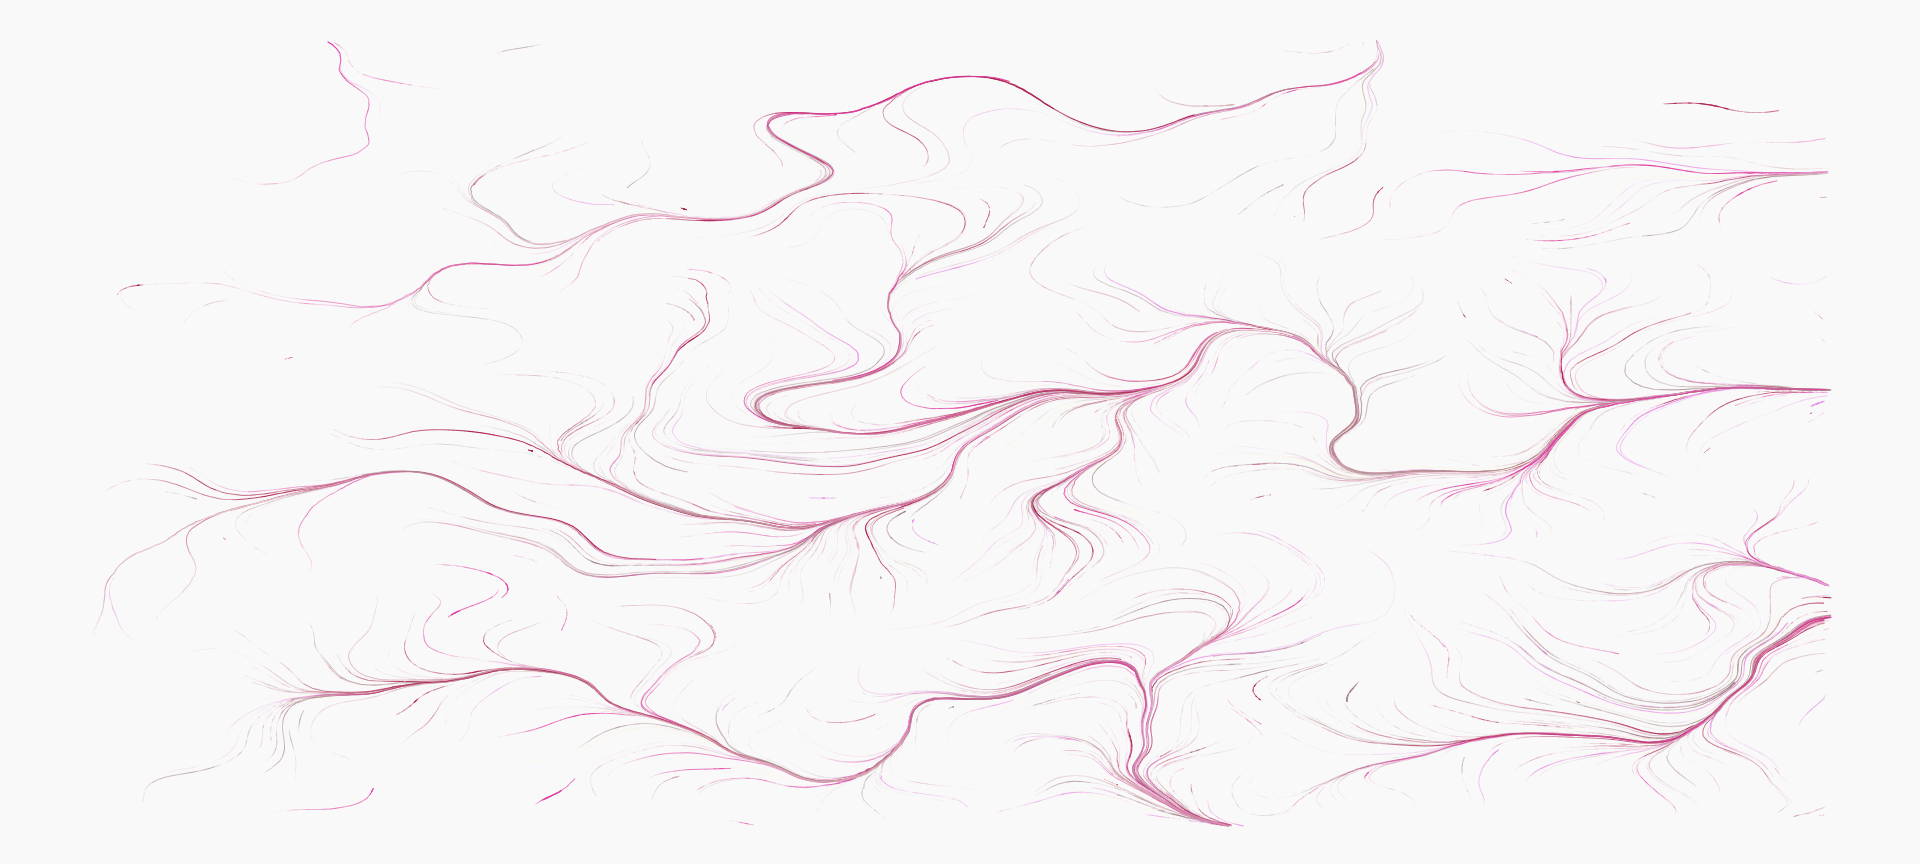
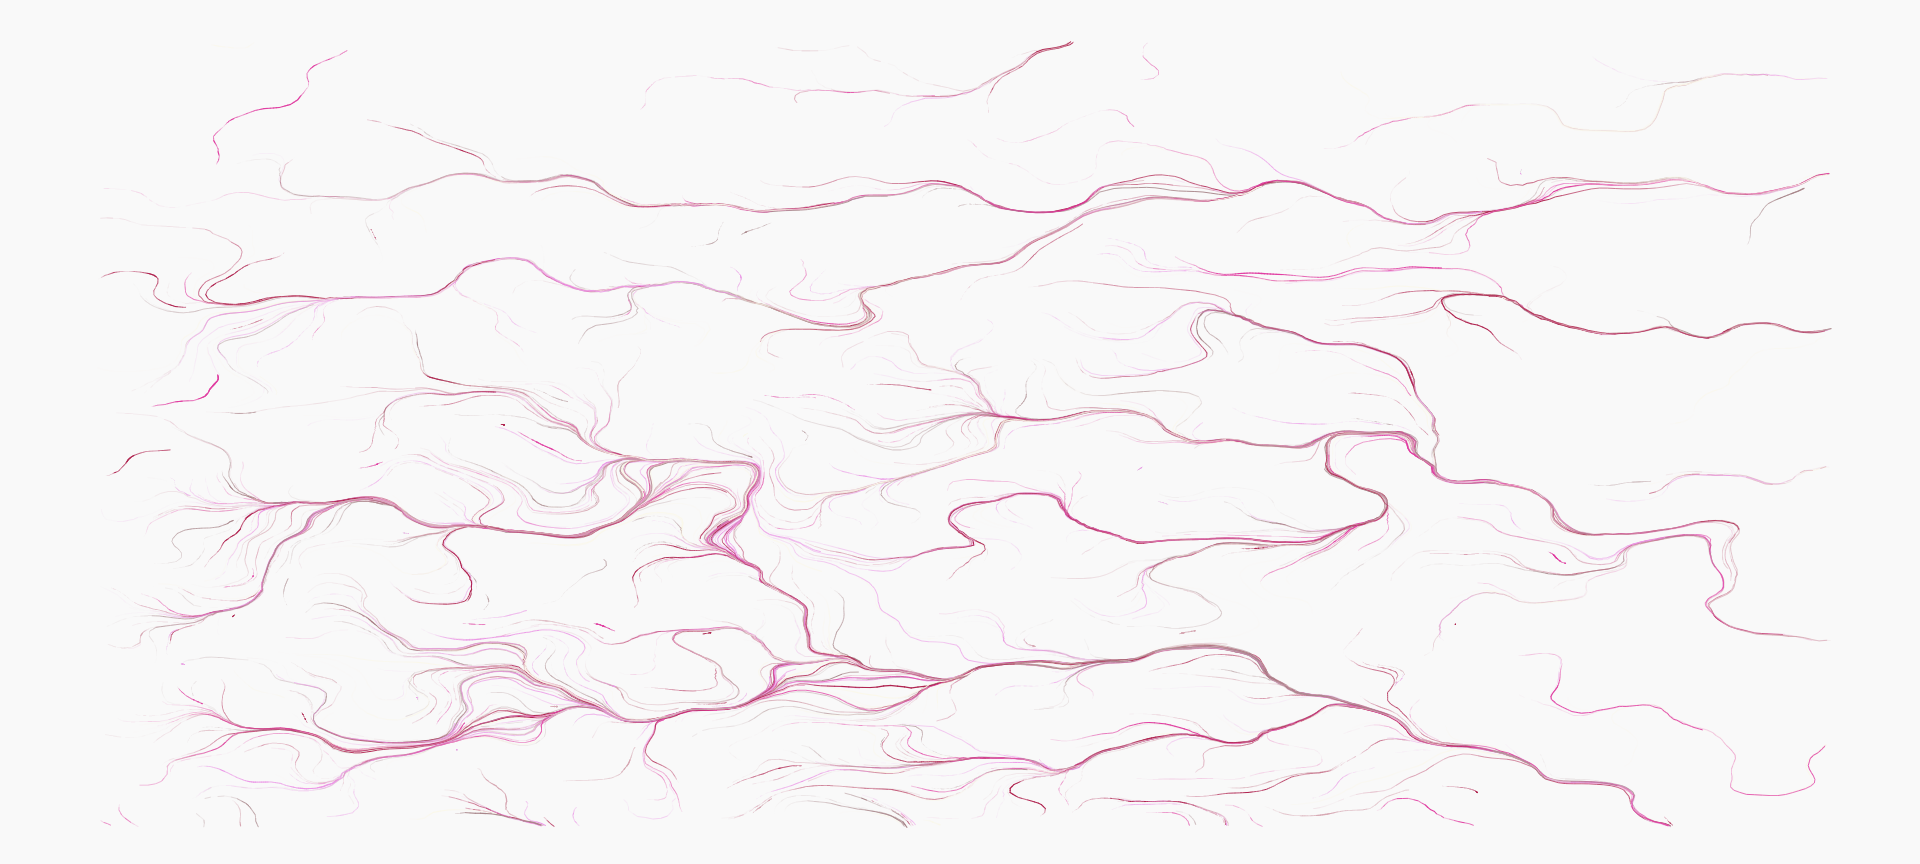
ughhh

diff --git a/R-tip of the day.html b/R-tip of the day.html
@@ -327,7 +327,6 @@ Mvuselelo Mathunjwa
 <h2>Example 1: Function Explanation</h2>
 <ul>
 <li>It is very similar to ggplot and easy to use</li>
-<li>Incrementally highlight additional lines</li>
 </ul>
 <div class="code-copy-outer-scaffold"><div class="sourceCode" id="cb2" data-code-line-numbers="9-10|12-17|19-24"><pre class="sourceCode numberSource python number-lines code-with-copy"><code class="sourceCode python"><span id="cb2-1"><a href=""></a>library(highcharter)</span>
 <span id="cb2-2"><a href=""></a>library(gapminder)</span>
@@ -358,8 +357,8 @@ Mvuselelo Mathunjwa
 <h2>Example 1: Interactive Line Graph</h2>
 <div class="cell">
 <div class="cell-output-display">
-<div class="highchart html-widget html-fill-item" id="htmlwidget-83e4f9df728251ae7291" style="width:960px;height:672px;"></div>
-<script type="application/json" data-for="htmlwidget-83e4f9df728251ae7291">{"x":{"hc_opts":{"chart":{"reflow":true},"title":{"text":null},"yAxis":{"title":{"text":"Population"}},"credits":{"enabled":false},"exporting":{"enabled":false},"boost":{"enabled":false},"plotOptions":{"series":{"label":{"enabled":false},"turboThreshold":0,"marker":{"symbol":"circle"}},"treemap":{"layoutAlgorithm":"squarified"},"animation":true},"series":[{"name":"Niger","data":[{"country":"Niger","continent":"Africa","year":1952,"lifeExp":37.444,"pop":3379468,"gdpPercap":761.879376,"x":1952,"y":3379468},{"country":"Niger","continent":"Africa","year":1957,"lifeExp":38.598,"pop":3692184,"gdpPercap":835.5234025,"x":1957,"y":3692184},{"country":"Niger","continent":"Africa","year":1962,"lifeExp":39.487,"pop":4076008,"gdpPercap":997.7661127,"x":1962,"y":4076008},{"country":"Niger","continent":"Africa","year":1967,"lifeExp":40.118,"pop":4534062,"gdpPercap":1054.384891,"x":1967,"y":4534062},{"country":"Niger","continent":"Africa","year":1972,"lifeExp":40.546,"pop":5060262,"gdpPercap":954.2092363,"x":1972,"y":5060262},{"country":"Niger","continent":"Africa","year":1977,"lifeExp":41.291,"pop":5682086,"gdpPercap":808.8970728,"x":1977,"y":5682086},{"country":"Niger","continent":"Africa","year":1982,"lifeExp":42.598,"pop":6437188,"gdpPercap":909.7221354,"x":1982,"y":6437188},{"country":"Niger","continent":"Africa","year":1987,"lifeExp":44.555,"pop":7332638,"gdpPercap":668.3000228,"x":1987,"y":7332638},{"country":"Niger","continent":"Africa","year":1992,"lifeExp":47.391,"pop":8392818,"gdpPercap":581.182725,"x":1992,"y":8392818},{"country":"Niger","continent":"Africa","year":1997,"lifeExp":51.313,"pop":9666252,"gdpPercap":580.3052092,"x":1997,"y":9666252},{"country":"Niger","continent":"Africa","year":2002,"lifeExp":54.496,"pop":11140655,"gdpPercap":601.0745012,"x":2002,"y":11140655},{"country":"Niger","continent":"Africa","year":2007,"lifeExp":56.867,"pop":12894865,"gdpPercap":619.6768924,"x":2007,"y":12894865}],"type":"line"},{"name":"South Africa","data":[{"country":"South Africa","continent":"Africa","year":1952,"lifeExp":45.009,"pop":14264935,"gdpPercap":4725.295531,"x":1952,"y":14264935},{"country":"South Africa","continent":"Africa","year":1957,"lifeExp":47.985,"pop":16151549,"gdpPercap":5487.104219,"x":1957,"y":16151549},{"country":"South Africa","continent":"Africa","year":1962,"lifeExp":49.951,"pop":18356657,"gdpPercap":5768.729717,"x":1962,"y":18356657},{"country":"South Africa","continent":"Africa","year":1967,"lifeExp":51.927,"pop":20997321,"gdpPercap":7114.477971,"x":1967,"y":20997321},{"country":"South Africa","continent":"Africa","year":1972,"lifeExp":53.696,"pop":23935810,"gdpPercap":7765.962636,"x":1972,"y":23935810},{"country":"South Africa","continent":"Africa","year":1977,"lifeExp":55.527,"pop":27129932,"gdpPercap":8028.651439,"x":1977,"y":27129932},{"country":"South Africa","continent":"Africa","year":1982,"lifeExp":58.161,"pop":31140029,"gdpPercap":8568.266228,"x":1982,"y":31140029},{"country":"South Africa","continent":"Africa","year":1987,"lifeExp":60.834,"pop":35933379,"gdpPercap":7825.823398,"x":1987,"y":35933379},{"country":"South Africa","continent":"Africa","year":1992,"lifeExp":61.888,"pop":39964159,"gdpPercap":7225.069258,"x":1992,"y":39964159},{"country":"South Africa","continent":"Africa","year":1997,"lifeExp":60.236,"pop":42835005,"gdpPercap":7479.188244,"x":1997,"y":42835005},{"country":"South Africa","continent":"Africa","year":2002,"lifeExp":53.365,"pop":44433622,"gdpPercap":7710.946444,"x":2002,"y":44433622},{"country":"South Africa","continent":"Africa","year":2007,"lifeExp":49.339,"pop":43997828,"gdpPercap":9269.657808,"x":2007,"y":43997828}],"type":"line"},{"name":"Swaziland","data":[{"country":"Swaziland","continent":"Africa","year":1952,"lifeExp":41.407,"pop":290243,"gdpPercap":1148.376626,"x":1952,"y":290243},{"country":"Swaziland","continent":"Africa","year":1957,"lifeExp":43.424,"pop":326741,"gdpPercap":1244.708364,"x":1957,"y":326741},{"country":"Swaziland","continent":"Africa","year":1962,"lifeExp":44.992,"pop":370006,"gdpPercap":1856.182125,"x":1962,"y":370006},{"country":"Swaziland","continent":"Africa","year":1967,"lifeExp":46.633,"pop":420690,"gdpPercap":2613.101665,"x":1967,"y":420690},{"country":"Swaziland","continent":"Africa","year":1972,"lifeExp":49.552,"pop":480105,"gdpPercap":3364.836625,"x":1972,"y":480105},{"country":"Swaziland","continent":"Africa","year":1977,"lifeExp":52.537,"pop":551425,"gdpPercap":3781.410618,"x":1977,"y":551425},{"country":"Swaziland","continent":"Africa","year":1982,"lifeExp":55.561,"pop":649901,"gdpPercap":3895.384018,"x":1982,"y":649901},{"country":"Swaziland","continent":"Africa","year":1987,"lifeExp":57.678,"pop":779348,"gdpPercap":3984.839812,"x":1987,"y":779348},{"country":"Swaziland","continent":"Africa","year":1992,"lifeExp":58.474,"pop":962344,"gdpPercap":3553.0224,"x":1992,"y":962344},{"country":"Swaziland","continent":"Africa","year":1997,"lifeExp":54.289,"pop":1054486,"gdpPercap":3876.76846,"x":1997,"y":1054486},{"country":"Swaziland","continent":"Africa","year":2002,"lifeExp":43.869,"pop":1130269,"gdpPercap":4128.116943,"x":2002,"y":1130269},{"country":"Swaziland","continent":"Africa","year":2007,"lifeExp":39.613,"pop":1133066,"gdpPercap":4513.480643,"x":2007,"y":1133066}],"type":"line"},{"name":"Tanzania","data":[{"country":"Tanzania","continent":"Africa","year":1952,"lifeExp":41.215,"pop":8322925,"gdpPercap":716.6500721,"x":1952,"y":8322925},{"country":"Tanzania","continent":"Africa","year":1957,"lifeExp":42.974,"pop":9452826,"gdpPercap":698.5356073,"x":1957,"y":9452826},{"country":"Tanzania","continent":"Africa","year":1962,"lifeExp":44.246,"pop":10863958,"gdpPercap":722.0038072999999,"x":1962,"y":10863958},{"country":"Tanzania","continent":"Africa","year":1967,"lifeExp":45.757,"pop":12607312,"gdpPercap":848.2186574999999,"x":1967,"y":12607312},{"country":"Tanzania","continent":"Africa","year":1972,"lifeExp":47.62,"pop":14706593,"gdpPercap":915.9850592,"x":1972,"y":14706593},{"country":"Tanzania","continent":"Africa","year":1977,"lifeExp":49.919,"pop":17129565,"gdpPercap":962.4922931999999,"x":1977,"y":17129565},{"country":"Tanzania","continent":"Africa","year":1982,"lifeExp":50.608,"pop":19844382,"gdpPercap":874.2426069000001,"x":1982,"y":19844382},{"country":"Tanzania","continent":"Africa","year":1987,"lifeExp":51.535,"pop":23040630,"gdpPercap":831.8220794,"x":1987,"y":23040630},{"country":"Tanzania","continent":"Africa","year":1992,"lifeExp":50.44,"pop":26605473,"gdpPercap":825.682454,"x":1992,"y":26605473},{"country":"Tanzania","continent":"Africa","year":1997,"lifeExp":48.466,"pop":30686889,"gdpPercap":789.1862231,"x":1997,"y":30686889},{"country":"Tanzania","continent":"Africa","year":2002,"lifeExp":49.651,"pop":34593779,"gdpPercap":899.0742111,"x":2002,"y":34593779},{"country":"Tanzania","continent":"Africa","year":2007,"lifeExp":52.517,"pop":38139640,"gdpPercap":1107.482182,"x":2007,"y":38139640}],"type":"line"}],"xAxis":{"title":{"text":"Year"}},"legend":{"align":"right","verticalAlign":"top"}},"theme":{"chart":{"backgroundColor":"transparent"},"colors":["#7cb5ec","#434348","#90ed7d","#f7a35c","#8085e9","#f15c80","#e4d354","#2b908f","#f45b5b","#91e8e1"]},"conf_opts":{"global":{"Date":null,"VMLRadialGradientURL":"http =//code.highcharts.com/list(version)/gfx/vml-radial-gradient.png","canvasToolsURL":"http =//code.highcharts.com/list(version)/modules/canvas-tools.js","getTimezoneOffset":null,"timezoneOffset":0,"useUTC":true},"lang":{"contextButtonTitle":"Chart context menu","decimalPoint":".","downloadCSV":"Download CSV","downloadJPEG":"Download JPEG image","downloadPDF":"Download PDF document","downloadPNG":"Download PNG image","downloadSVG":"Download SVG vector image","downloadXLS":"Download XLS","drillUpText":"◁ Back to {series.name}","exitFullscreen":"Exit from full screen","exportData":{"annotationHeader":"Annotations","categoryDatetimeHeader":"DateTime","categoryHeader":"Category"},"hideData":"Hide data table","invalidDate":null,"loading":"Loading...","months":["January","February","March","April","May","June","July","August","September","October","November","December"],"noData":"No data to display","numericSymbolMagnitude":1000,"numericSymbols":["k","M","G","T","P","E"],"printChart":"Print chart","resetZoom":"Reset zoom","resetZoomTitle":"Reset zoom level 1:1","shortMonths":["Jan","Feb","Mar","Apr","May","Jun","Jul","Aug","Sep","Oct","Nov","Dec"],"shortWeekdays":["Sat","Sun","Mon","Tue","Wed","Thu","Fri"],"thousandsSep":" ","viewData":"View data table","viewFullscreen":"View in full screen","weekdays":["Sunday","Monday","Tuesday","Wednesday","Thursday","Friday","Saturday"]}},"type":"chart","fonts":[],"debug":false},"evals":[],"jsHooks":[]}</script>
+<div class="highchart html-widget html-fill-item" id="htmlwidget-4c158799414556224bf8" style="width:960px;height:672px;"></div>
+<script type="application/json" data-for="htmlwidget-4c158799414556224bf8">{"x":{"hc_opts":{"chart":{"reflow":true},"title":{"text":null},"yAxis":{"title":{"text":"Population"}},"credits":{"enabled":false},"exporting":{"enabled":false},"boost":{"enabled":false},"plotOptions":{"series":{"label":{"enabled":false},"turboThreshold":0,"marker":{"symbol":"circle"}},"treemap":{"layoutAlgorithm":"squarified"},"animation":true},"series":[{"name":"Niger","data":[{"country":"Niger","continent":"Africa","year":1952,"lifeExp":37.444,"pop":3379468,"gdpPercap":761.879376,"x":1952,"y":3379468},{"country":"Niger","continent":"Africa","year":1957,"lifeExp":38.598,"pop":3692184,"gdpPercap":835.5234025,"x":1957,"y":3692184},{"country":"Niger","continent":"Africa","year":1962,"lifeExp":39.487,"pop":4076008,"gdpPercap":997.7661127,"x":1962,"y":4076008},{"country":"Niger","continent":"Africa","year":1967,"lifeExp":40.118,"pop":4534062,"gdpPercap":1054.384891,"x":1967,"y":4534062},{"country":"Niger","continent":"Africa","year":1972,"lifeExp":40.546,"pop":5060262,"gdpPercap":954.2092363,"x":1972,"y":5060262},{"country":"Niger","continent":"Africa","year":1977,"lifeExp":41.291,"pop":5682086,"gdpPercap":808.8970728,"x":1977,"y":5682086},{"country":"Niger","continent":"Africa","year":1982,"lifeExp":42.598,"pop":6437188,"gdpPercap":909.7221354,"x":1982,"y":6437188},{"country":"Niger","continent":"Africa","year":1987,"lifeExp":44.555,"pop":7332638,"gdpPercap":668.3000228,"x":1987,"y":7332638},{"country":"Niger","continent":"Africa","year":1992,"lifeExp":47.391,"pop":8392818,"gdpPercap":581.182725,"x":1992,"y":8392818},{"country":"Niger","continent":"Africa","year":1997,"lifeExp":51.313,"pop":9666252,"gdpPercap":580.3052092,"x":1997,"y":9666252},{"country":"Niger","continent":"Africa","year":2002,"lifeExp":54.496,"pop":11140655,"gdpPercap":601.0745012,"x":2002,"y":11140655},{"country":"Niger","continent":"Africa","year":2007,"lifeExp":56.867,"pop":12894865,"gdpPercap":619.6768924,"x":2007,"y":12894865}],"type":"line"},{"name":"South Africa","data":[{"country":"South Africa","continent":"Africa","year":1952,"lifeExp":45.009,"pop":14264935,"gdpPercap":4725.295531,"x":1952,"y":14264935},{"country":"South Africa","continent":"Africa","year":1957,"lifeExp":47.985,"pop":16151549,"gdpPercap":5487.104219,"x":1957,"y":16151549},{"country":"South Africa","continent":"Africa","year":1962,"lifeExp":49.951,"pop":18356657,"gdpPercap":5768.729717,"x":1962,"y":18356657},{"country":"South Africa","continent":"Africa","year":1967,"lifeExp":51.927,"pop":20997321,"gdpPercap":7114.477971,"x":1967,"y":20997321},{"country":"South Africa","continent":"Africa","year":1972,"lifeExp":53.696,"pop":23935810,"gdpPercap":7765.962636,"x":1972,"y":23935810},{"country":"South Africa","continent":"Africa","year":1977,"lifeExp":55.527,"pop":27129932,"gdpPercap":8028.651439,"x":1977,"y":27129932},{"country":"South Africa","continent":"Africa","year":1982,"lifeExp":58.161,"pop":31140029,"gdpPercap":8568.266228,"x":1982,"y":31140029},{"country":"South Africa","continent":"Africa","year":1987,"lifeExp":60.834,"pop":35933379,"gdpPercap":7825.823398,"x":1987,"y":35933379},{"country":"South Africa","continent":"Africa","year":1992,"lifeExp":61.888,"pop":39964159,"gdpPercap":7225.069258,"x":1992,"y":39964159},{"country":"South Africa","continent":"Africa","year":1997,"lifeExp":60.236,"pop":42835005,"gdpPercap":7479.188244,"x":1997,"y":42835005},{"country":"South Africa","continent":"Africa","year":2002,"lifeExp":53.365,"pop":44433622,"gdpPercap":7710.946444,"x":2002,"y":44433622},{"country":"South Africa","continent":"Africa","year":2007,"lifeExp":49.339,"pop":43997828,"gdpPercap":9269.657808,"x":2007,"y":43997828}],"type":"line"},{"name":"Swaziland","data":[{"country":"Swaziland","continent":"Africa","year":1952,"lifeExp":41.407,"pop":290243,"gdpPercap":1148.376626,"x":1952,"y":290243},{"country":"Swaziland","continent":"Africa","year":1957,"lifeExp":43.424,"pop":326741,"gdpPercap":1244.708364,"x":1957,"y":326741},{"country":"Swaziland","continent":"Africa","year":1962,"lifeExp":44.992,"pop":370006,"gdpPercap":1856.182125,"x":1962,"y":370006},{"country":"Swaziland","continent":"Africa","year":1967,"lifeExp":46.633,"pop":420690,"gdpPercap":2613.101665,"x":1967,"y":420690},{"country":"Swaziland","continent":"Africa","year":1972,"lifeExp":49.552,"pop":480105,"gdpPercap":3364.836625,"x":1972,"y":480105},{"country":"Swaziland","continent":"Africa","year":1977,"lifeExp":52.537,"pop":551425,"gdpPercap":3781.410618,"x":1977,"y":551425},{"country":"Swaziland","continent":"Africa","year":1982,"lifeExp":55.561,"pop":649901,"gdpPercap":3895.384018,"x":1982,"y":649901},{"country":"Swaziland","continent":"Africa","year":1987,"lifeExp":57.678,"pop":779348,"gdpPercap":3984.839812,"x":1987,"y":779348},{"country":"Swaziland","continent":"Africa","year":1992,"lifeExp":58.474,"pop":962344,"gdpPercap":3553.0224,"x":1992,"y":962344},{"country":"Swaziland","continent":"Africa","year":1997,"lifeExp":54.289,"pop":1054486,"gdpPercap":3876.76846,"x":1997,"y":1054486},{"country":"Swaziland","continent":"Africa","year":2002,"lifeExp":43.869,"pop":1130269,"gdpPercap":4128.116943,"x":2002,"y":1130269},{"country":"Swaziland","continent":"Africa","year":2007,"lifeExp":39.613,"pop":1133066,"gdpPercap":4513.480643,"x":2007,"y":1133066}],"type":"line"},{"name":"Tanzania","data":[{"country":"Tanzania","continent":"Africa","year":1952,"lifeExp":41.215,"pop":8322925,"gdpPercap":716.6500721,"x":1952,"y":8322925},{"country":"Tanzania","continent":"Africa","year":1957,"lifeExp":42.974,"pop":9452826,"gdpPercap":698.5356073,"x":1957,"y":9452826},{"country":"Tanzania","continent":"Africa","year":1962,"lifeExp":44.246,"pop":10863958,"gdpPercap":722.0038072999999,"x":1962,"y":10863958},{"country":"Tanzania","continent":"Africa","year":1967,"lifeExp":45.757,"pop":12607312,"gdpPercap":848.2186574999999,"x":1967,"y":12607312},{"country":"Tanzania","continent":"Africa","year":1972,"lifeExp":47.62,"pop":14706593,"gdpPercap":915.9850592,"x":1972,"y":14706593},{"country":"Tanzania","continent":"Africa","year":1977,"lifeExp":49.919,"pop":17129565,"gdpPercap":962.4922931999999,"x":1977,"y":17129565},{"country":"Tanzania","continent":"Africa","year":1982,"lifeExp":50.608,"pop":19844382,"gdpPercap":874.2426069000001,"x":1982,"y":19844382},{"country":"Tanzania","continent":"Africa","year":1987,"lifeExp":51.535,"pop":23040630,"gdpPercap":831.8220794,"x":1987,"y":23040630},{"country":"Tanzania","continent":"Africa","year":1992,"lifeExp":50.44,"pop":26605473,"gdpPercap":825.682454,"x":1992,"y":26605473},{"country":"Tanzania","continent":"Africa","year":1997,"lifeExp":48.466,"pop":30686889,"gdpPercap":789.1862231,"x":1997,"y":30686889},{"country":"Tanzania","continent":"Africa","year":2002,"lifeExp":49.651,"pop":34593779,"gdpPercap":899.0742111,"x":2002,"y":34593779},{"country":"Tanzania","continent":"Africa","year":2007,"lifeExp":52.517,"pop":38139640,"gdpPercap":1107.482182,"x":2007,"y":38139640}],"type":"line"}],"xAxis":{"title":{"text":"Year"}},"legend":{"align":"right","verticalAlign":"top"}},"theme":{"chart":{"backgroundColor":"transparent"},"colors":["#7cb5ec","#434348","#90ed7d","#f7a35c","#8085e9","#f15c80","#e4d354","#2b908f","#f45b5b","#91e8e1"]},"conf_opts":{"global":{"Date":null,"VMLRadialGradientURL":"http =//code.highcharts.com/list(version)/gfx/vml-radial-gradient.png","canvasToolsURL":"http =//code.highcharts.com/list(version)/modules/canvas-tools.js","getTimezoneOffset":null,"timezoneOffset":0,"useUTC":true},"lang":{"contextButtonTitle":"Chart context menu","decimalPoint":".","downloadCSV":"Download CSV","downloadJPEG":"Download JPEG image","downloadPDF":"Download PDF document","downloadPNG":"Download PNG image","downloadSVG":"Download SVG vector image","downloadXLS":"Download XLS","drillUpText":"◁ Back to {series.name}","exitFullscreen":"Exit from full screen","exportData":{"annotationHeader":"Annotations","categoryDatetimeHeader":"DateTime","categoryHeader":"Category"},"hideData":"Hide data table","invalidDate":null,"loading":"Loading...","months":["January","February","March","April","May","June","July","August","September","October","November","December"],"noData":"No data to display","numericSymbolMagnitude":1000,"numericSymbols":["k","M","G","T","P","E"],"printChart":"Print chart","resetZoom":"Reset zoom","resetZoomTitle":"Reset zoom level 1:1","shortMonths":["Jan","Feb","Mar","Apr","May","Jun","Jul","Aug","Sep","Oct","Nov","Dec"],"shortWeekdays":["Sat","Sun","Mon","Tue","Wed","Thu","Fri"],"thousandsSep":" ","viewData":"View data table","viewFullscreen":"View in full screen","weekdays":["Sunday","Monday","Tuesday","Wednesday","Thursday","Friday","Saturday"]}},"type":"chart","fonts":[],"debug":false},"evals":[],"jsHooks":[]}</script>
 </div>
 </div>
 </section>
@@ -367,8 +366,8 @@ Mvuselelo Mathunjwa
 <h2>Example 2: Interactive Pie Graph</h2>
 <div class="cell">
 <div class="cell-output-display">
-<div class="highchart html-widget html-fill-item" id="htmlwidget-6de9e6a2f194bed90f8a" style="width:960px;height:672px;"></div>
-<script type="application/json" data-for="htmlwidget-6de9e6a2f194bed90f8a">{"x":{"hc_opts":{"chart":{"reflow":true},"title":{"text":"Population by Country"},"yAxis":{"title":{"text":null}},"credits":{"enabled":false},"exporting":{"enabled":false},"boost":{"enabled":false},"plotOptions":{"series":{"label":{"enabled":false},"turboThreshold":0},"treemap":{"layoutAlgorithm":"squarified"}},"series":[{"group":"group","data":[{"country":"Niger","total_pop":82288486,"y":82288486,"name":"Niger"},{"country":"South Africa","total_pop":359140226,"y":359140226,"name":"South Africa"},{"country":"Swaziland","total_pop":8148624,"y":8148624,"name":"Swaziland"},{"country":"Tanzania","total_pop":245993972,"y":245993972,"name":"Tanzania"}],"type":"pie"}],"subtitle":{"text":"Four African countries by population"}},"theme":{"chart":{"backgroundColor":"transparent"},"colors":["#7cb5ec","#434348","#90ed7d","#f7a35c","#8085e9","#f15c80","#e4d354","#2b908f","#f45b5b","#91e8e1"]},"conf_opts":{"global":{"Date":null,"VMLRadialGradientURL":"http =//code.highcharts.com/list(version)/gfx/vml-radial-gradient.png","canvasToolsURL":"http =//code.highcharts.com/list(version)/modules/canvas-tools.js","getTimezoneOffset":null,"timezoneOffset":0,"useUTC":true},"lang":{"contextButtonTitle":"Chart context menu","decimalPoint":".","downloadCSV":"Download CSV","downloadJPEG":"Download JPEG image","downloadPDF":"Download PDF document","downloadPNG":"Download PNG image","downloadSVG":"Download SVG vector image","downloadXLS":"Download XLS","drillUpText":"◁ Back to {series.name}","exitFullscreen":"Exit from full screen","exportData":{"annotationHeader":"Annotations","categoryDatetimeHeader":"DateTime","categoryHeader":"Category"},"hideData":"Hide data table","invalidDate":null,"loading":"Loading...","months":["January","February","March","April","May","June","July","August","September","October","November","December"],"noData":"No data to display","numericSymbolMagnitude":1000,"numericSymbols":["k","M","G","T","P","E"],"printChart":"Print chart","resetZoom":"Reset zoom","resetZoomTitle":"Reset zoom level 1:1","shortMonths":["Jan","Feb","Mar","Apr","May","Jun","Jul","Aug","Sep","Oct","Nov","Dec"],"shortWeekdays":["Sat","Sun","Mon","Tue","Wed","Thu","Fri"],"thousandsSep":" ","viewData":"View data table","viewFullscreen":"View in full screen","weekdays":["Sunday","Monday","Tuesday","Wednesday","Thursday","Friday","Saturday"]}},"type":"chart","fonts":[],"debug":false},"evals":[],"jsHooks":[]}</script>
+<div class="highchart html-widget html-fill-item" id="htmlwidget-899bd51125b402327311" style="width:960px;height:672px;"></div>
+<script type="application/json" data-for="htmlwidget-899bd51125b402327311">{"x":{"hc_opts":{"chart":{"reflow":true},"title":{"text":"Population by Country"},"yAxis":{"title":{"text":null}},"credits":{"enabled":false},"exporting":{"enabled":false},"boost":{"enabled":false},"plotOptions":{"series":{"label":{"enabled":false},"turboThreshold":0},"treemap":{"layoutAlgorithm":"squarified"}},"series":[{"group":"group","data":[{"country":"Niger","total_pop":82288486,"y":82288486,"name":"Niger"},{"country":"South Africa","total_pop":359140226,"y":359140226,"name":"South Africa"},{"country":"Swaziland","total_pop":8148624,"y":8148624,"name":"Swaziland"},{"country":"Tanzania","total_pop":245993972,"y":245993972,"name":"Tanzania"}],"type":"pie"}],"subtitle":{"text":"Four African countries by population"}},"theme":{"chart":{"backgroundColor":"transparent"},"colors":["#7cb5ec","#434348","#90ed7d","#f7a35c","#8085e9","#f15c80","#e4d354","#2b908f","#f45b5b","#91e8e1"]},"conf_opts":{"global":{"Date":null,"VMLRadialGradientURL":"http =//code.highcharts.com/list(version)/gfx/vml-radial-gradient.png","canvasToolsURL":"http =//code.highcharts.com/list(version)/modules/canvas-tools.js","getTimezoneOffset":null,"timezoneOffset":0,"useUTC":true},"lang":{"contextButtonTitle":"Chart context menu","decimalPoint":".","downloadCSV":"Download CSV","downloadJPEG":"Download JPEG image","downloadPDF":"Download PDF document","downloadPNG":"Download PNG image","downloadSVG":"Download SVG vector image","downloadXLS":"Download XLS","drillUpText":"◁ Back to {series.name}","exitFullscreen":"Exit from full screen","exportData":{"annotationHeader":"Annotations","categoryDatetimeHeader":"DateTime","categoryHeader":"Category"},"hideData":"Hide data table","invalidDate":null,"loading":"Loading...","months":["January","February","March","April","May","June","July","August","September","October","November","December"],"noData":"No data to display","numericSymbolMagnitude":1000,"numericSymbols":["k","M","G","T","P","E"],"printChart":"Print chart","resetZoom":"Reset zoom","resetZoomTitle":"Reset zoom level 1:1","shortMonths":["Jan","Feb","Mar","Apr","May","Jun","Jul","Aug","Sep","Oct","Nov","Dec"],"shortWeekdays":["Sat","Sun","Mon","Tue","Wed","Thu","Fri"],"thousandsSep":" ","viewData":"View data table","viewFullscreen":"View in full screen","weekdays":["Sunday","Monday","Tuesday","Wednesday","Thursday","Friday","Saturday"]}},"type":"chart","fonts":[],"debug":false},"evals":[],"jsHooks":[]}</script>
 </div>
 </div>
 </section>